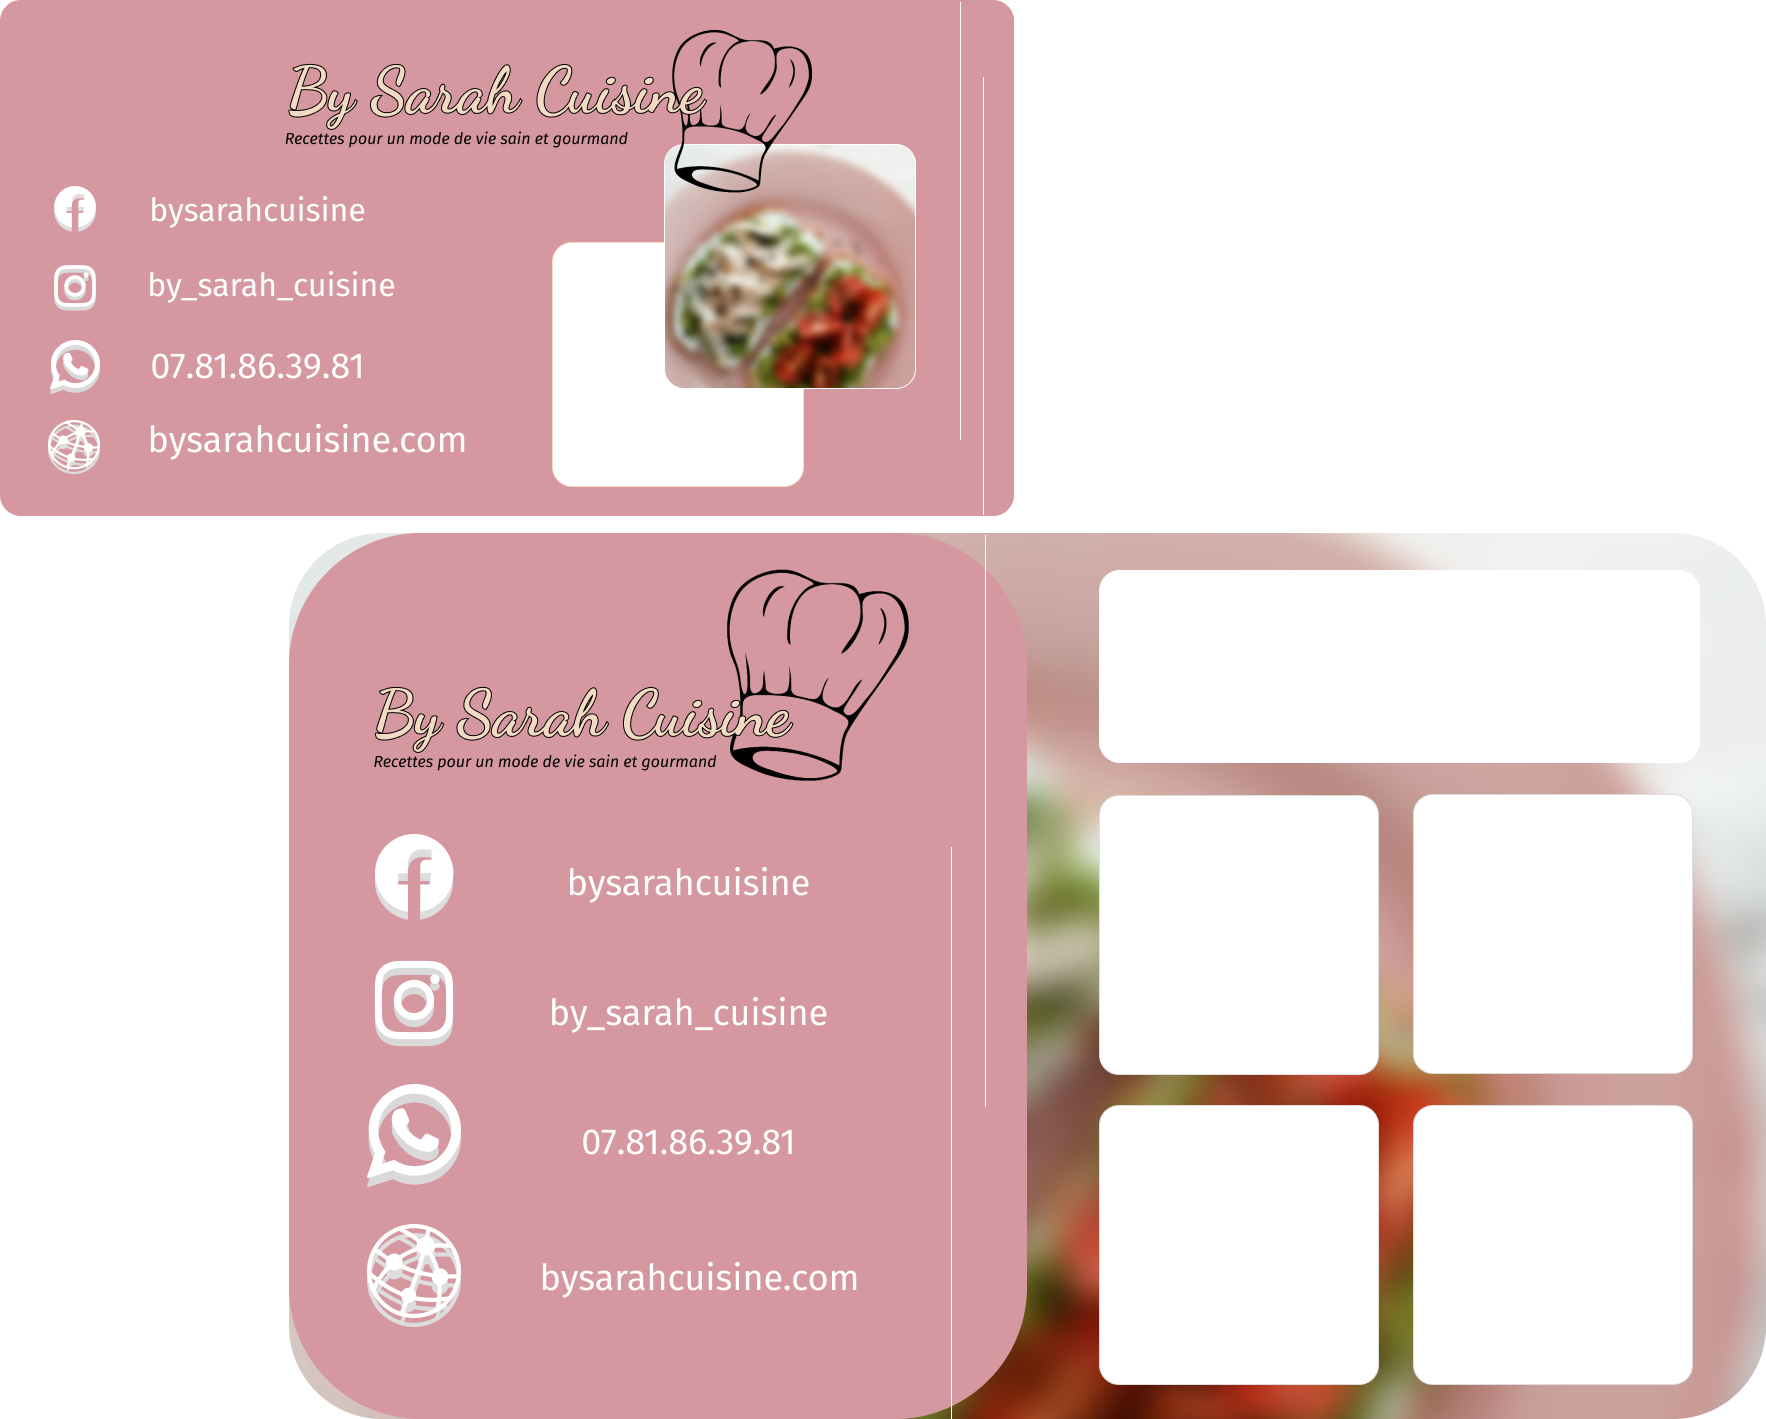
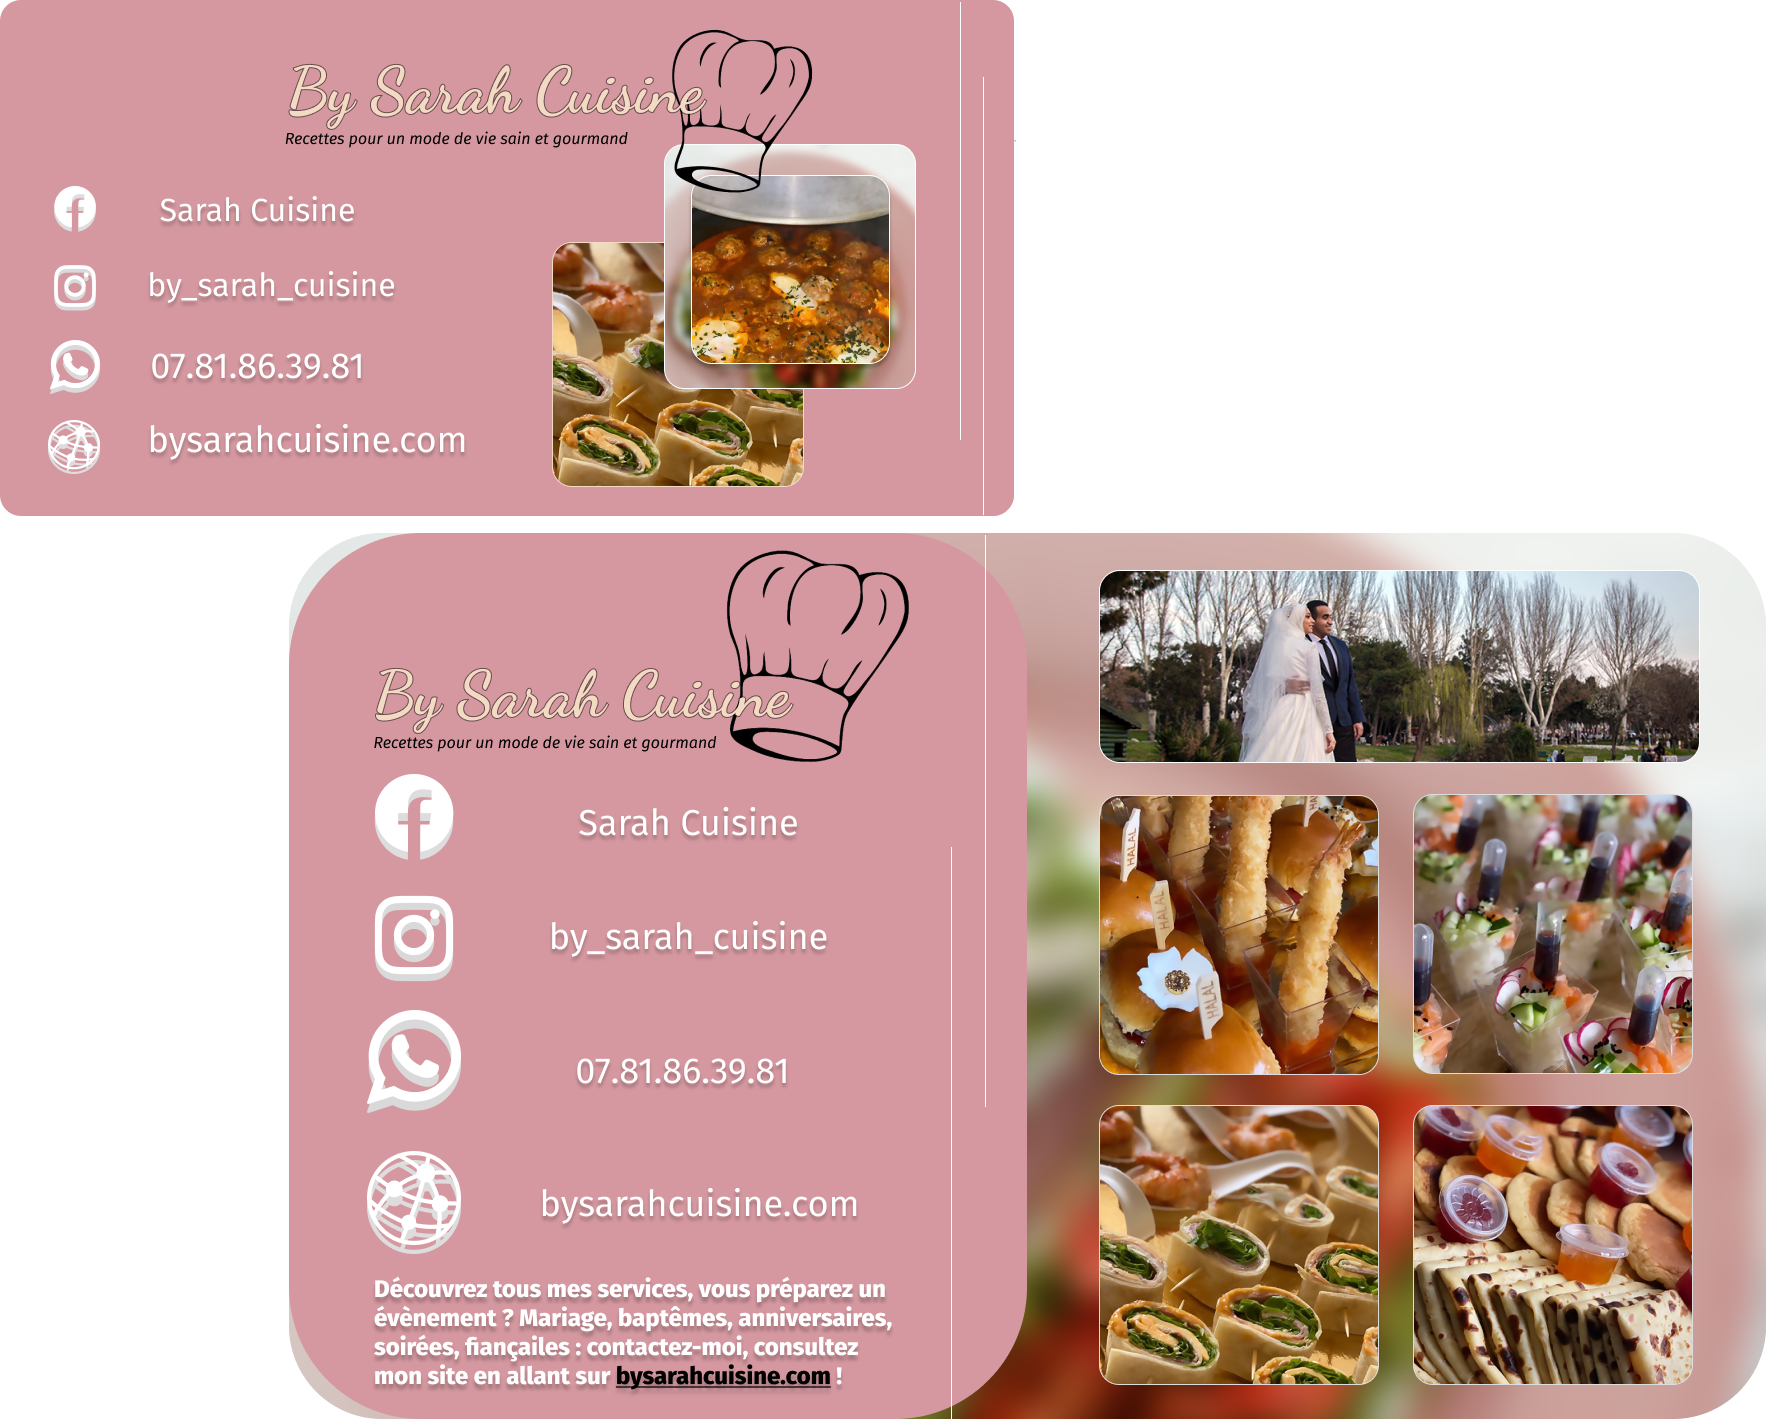
[ADD] change flyer

diff --git a/src/Pages/Services/services.jsx b/src/Pages/Services/services.jsx
@@ -281,7 +281,7 @@ const Services = () => {
           </div>
           <div className="px-6 py-3">
             <div className="font-bold text-pink font-sans-recursive underline text-3xl mb-2">
-              Mariage
+              Mariage, fiançailles
             </div>
             <p className="text-black font-semibold text-base font-sans-serif">
               Lorem ipsum dolor sit amet, consectetur adipisicing elit.
